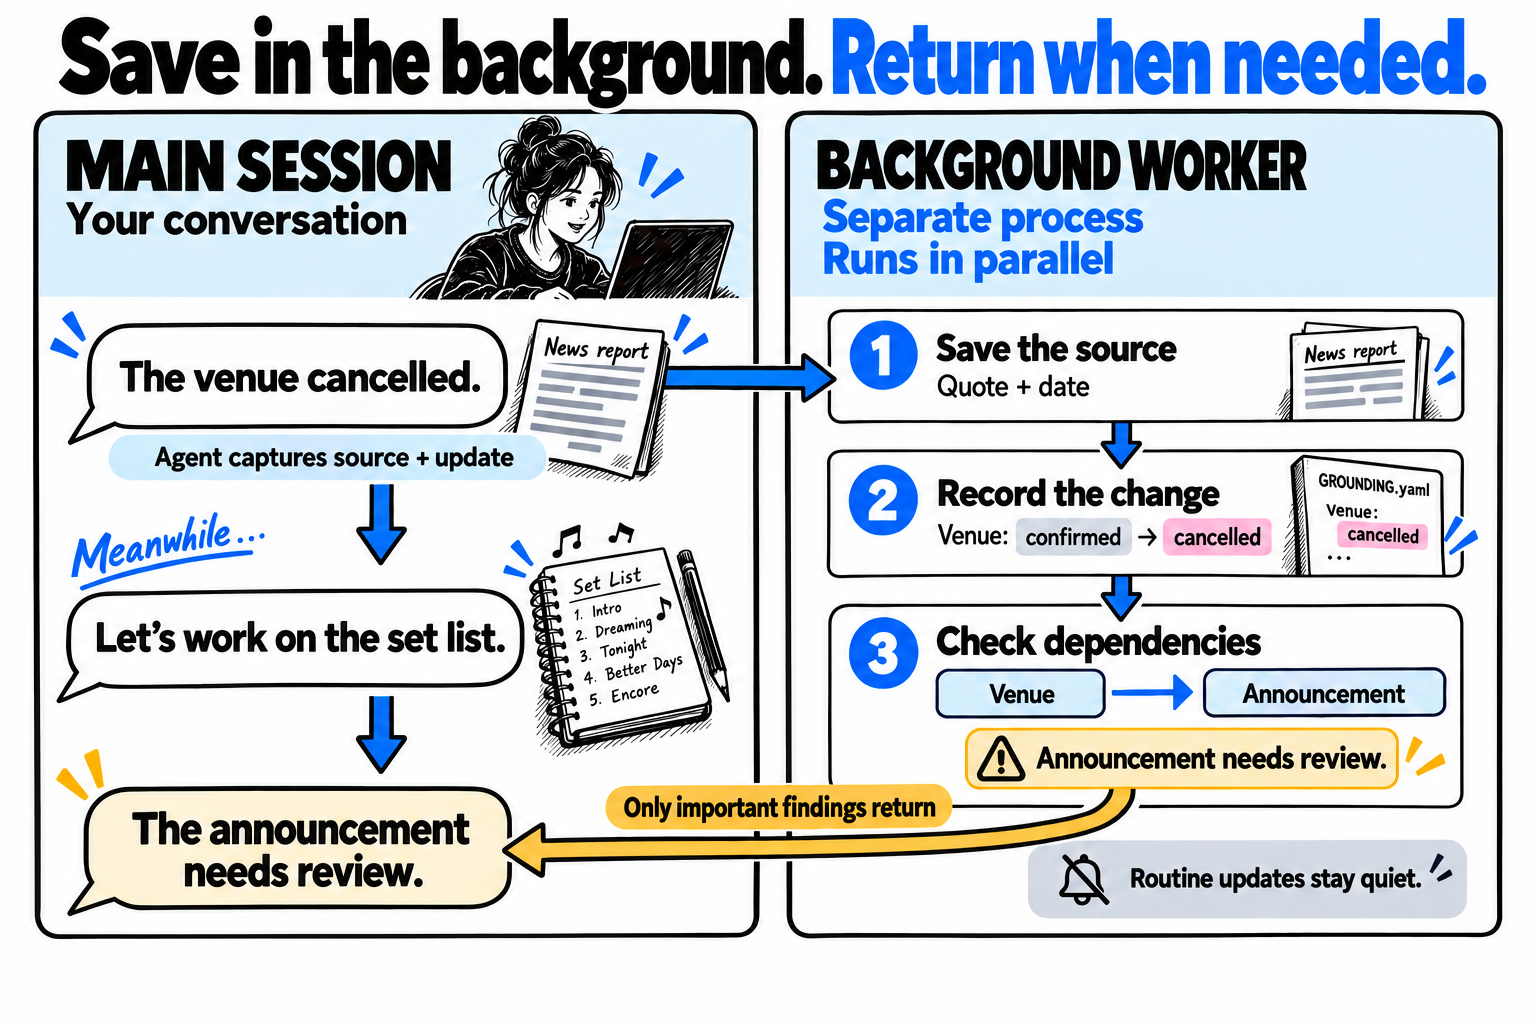
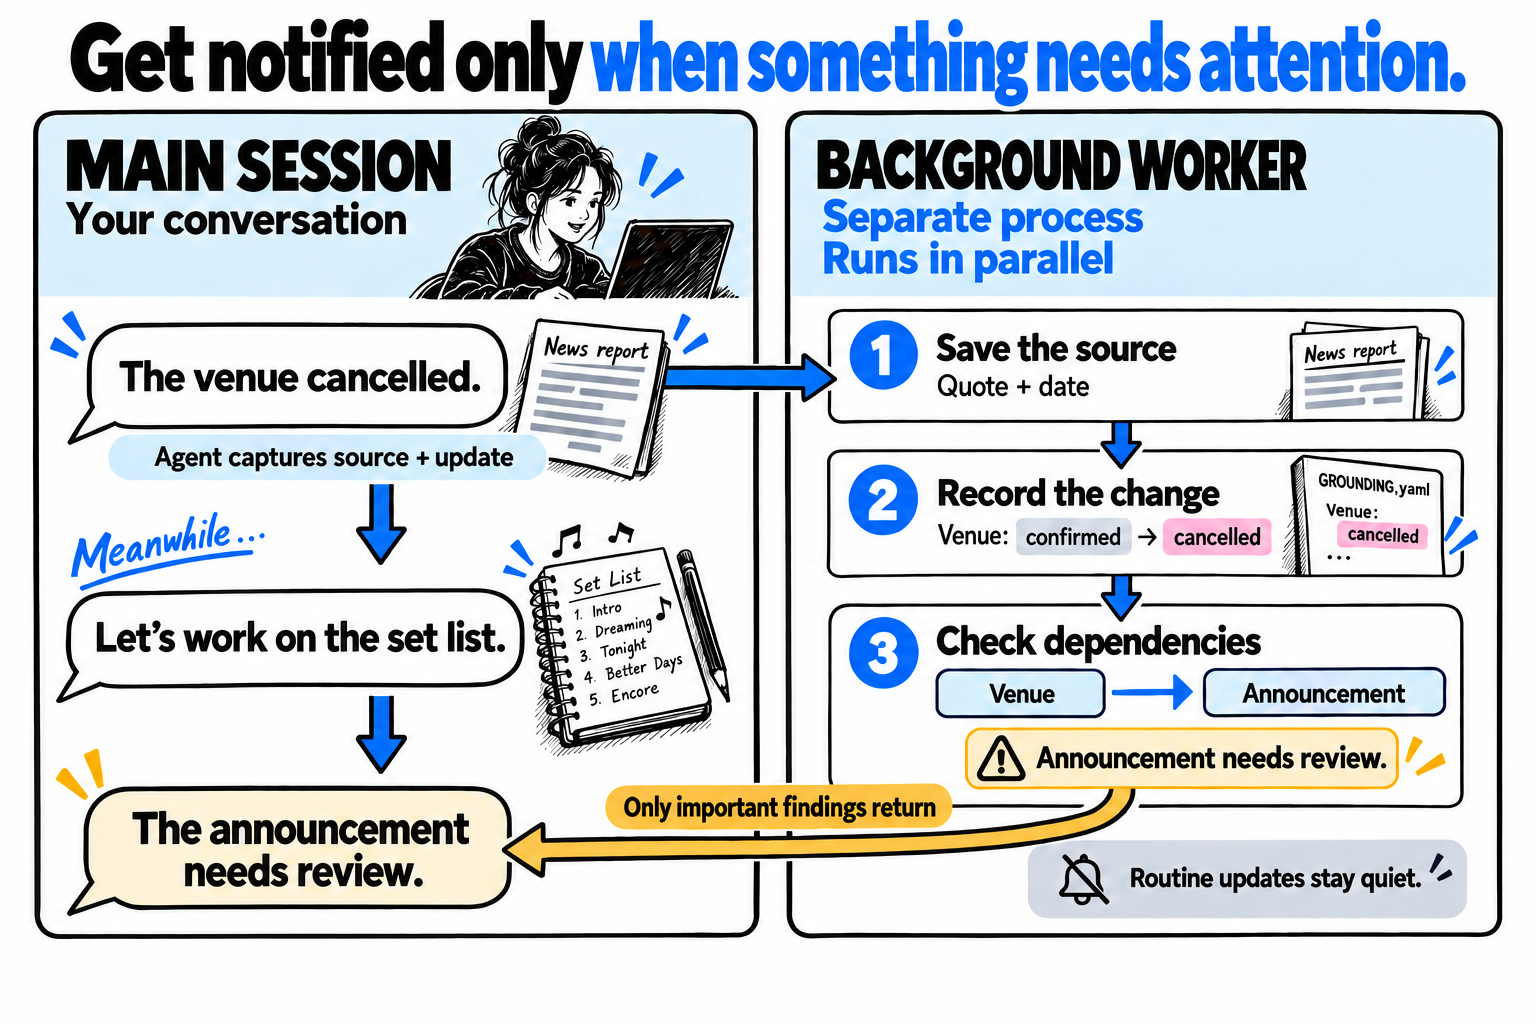
Clarify selective notifications in the conversation overview

diff --git a/README.md b/README.md
@@ -440,7 +440,7 @@ important unresolved findings are available for delivery back to the conversatio
   <a href="assets/diagrams/conversation-flow.png">
     <picture>
       <source media="(max-width: 600px)" srcset="assets/diagrams/conversation-flow-mobile.png">
-      <img src="assets/diagrams/conversation-flow.png" width="760" alt="Save in the background. Return when needed. The main agent captures an explicit venue-cancellation report and continues with the set list. A software worker in a separate process saves the dated source, records the change from confirmed to cancelled and checks the venue-to-announcement dependency. The announcement needs review; important findings return through the configured delivery route while routine updates stay quiet.">
+      <img src="assets/diagrams/conversation-flow.png" width="760" alt="Get notified only when something needs attention. The main agent captures an explicit venue-cancellation report and continues with the set list. A software worker in a separate process saves the dated source, records the change from confirmed to cancelled and checks the venue-to-announcement dependency. The announcement needs review; important findings return through the configured delivery route while routine updates stay quiet.">
     </picture>
   </a>
 </p>

diff --git a/assets/brand-guide.md b/assets/brand-guide.md
@@ -84,8 +84,8 @@ density and visual treatment for the image's purpose.
   recording, a separate parallel worker, and selective return of important findings.
   Choose the layout for the relationship: time panels stack on a phone; parallel
   conversation tracks remain visibly separate.
-- The conversation overview uses the direct headline "Save in the background.
-  Return when needed." Human illustrations belong only in the main-session scene;
+- The conversation overview uses the direct headline "Get notified only when
+  something needs attention." Human illustrations belong only in the main-session scene;
   a software worker must not look like a second person. Remove redundant slogans
   when the title already states the benefit.
 - The knowledge-source illustration uses a deliberately busy left side to show
